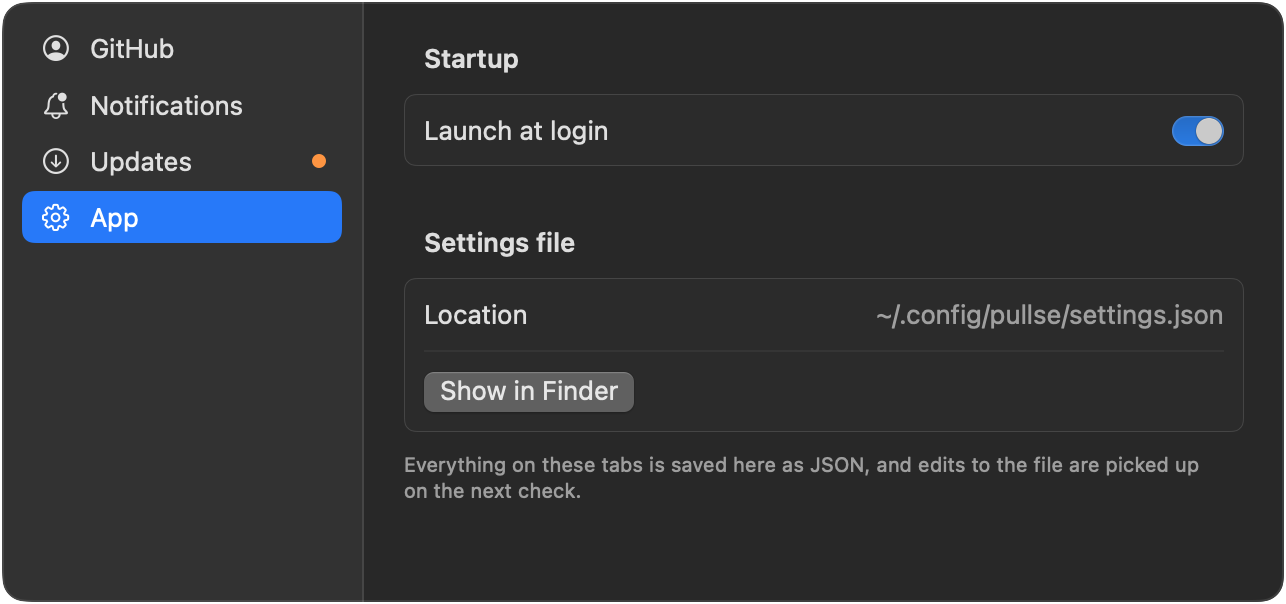
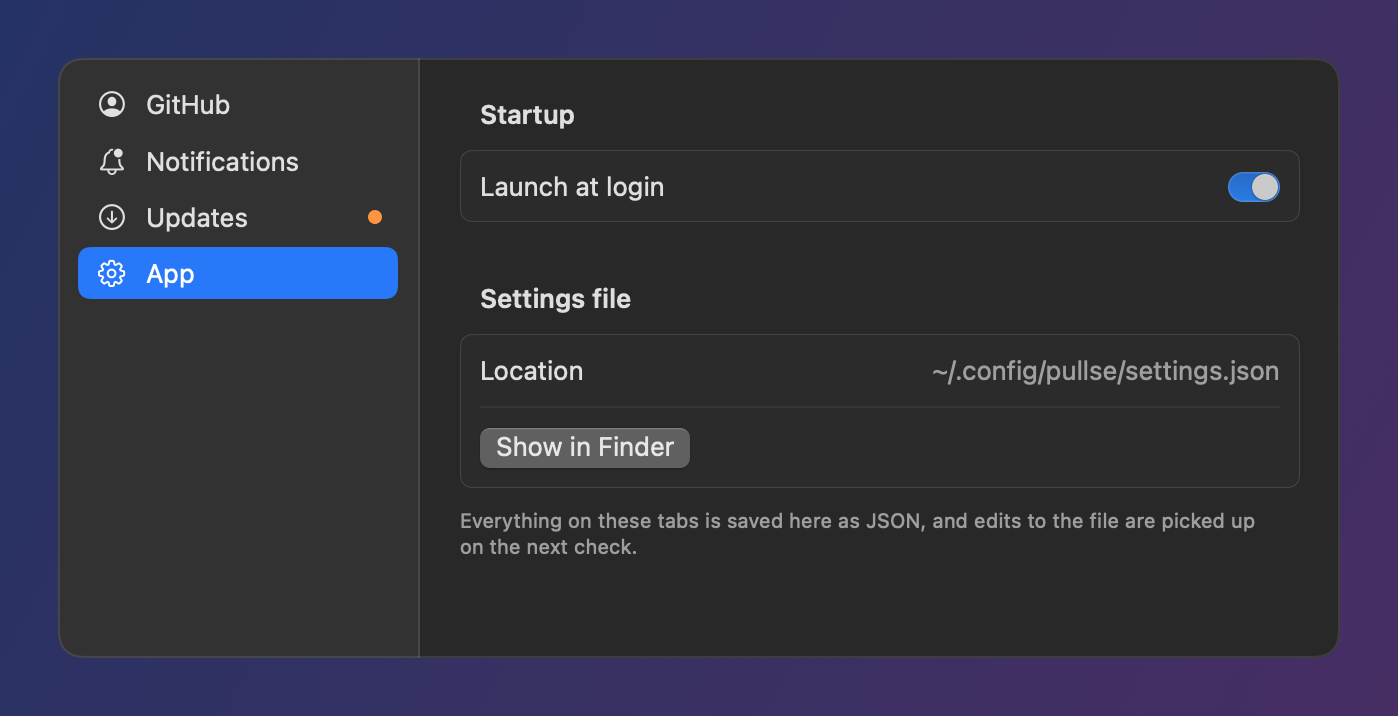
Show the README screenshots in the same scenery as the GIFs
The activity menu is now pictured open under its menu bar icon on a desktop,
and each Settings tab as a window on the wallpaper, in light and dark. The
stills reuse the GIFs' scene pieces from Demo.swift, which now follow the
capture's appearance and can draw a narrower desktop for a still.

diff --git a/Sources/Pullse/Demo.swift b/Sources/Pullse/Demo.swift
@@ -193,13 +193,22 @@ enum Demo {
 
 // MARK: - Scene pieces
 
-private let wallpaper = LinearGradient(
-    colors: [Color(red: 0.35, green: 0.53, blue: 0.87), Color(red: 0.60, green: 0.45, blue: 0.80)],
-    startPoint: .topLeading, endPoint: .bottomTrailing
-)
+/// The desktop behind every scene, a shade darker in dark mode.
+struct DemoWallpaper: View {
+    @Environment(\.colorScheme) private var scheme
+
+    var body: some View {
+        LinearGradient(
+            colors: scheme == .dark
+                ? [Color(red: 0.13, green: 0.20, blue: 0.40), Color(red: 0.27, green: 0.18, blue: 0.40)]
+                : [Color(red: 0.35, green: 0.53, blue: 0.87), Color(red: 0.60, green: 0.45, blue: 0.80)],
+            startPoint: .topLeading, endPoint: .bottomTrailing
+        )
+    }
+}
 
 /// A fixed-size wallpaper with `content` on it and an optional pointer on top.
-private struct DemoCanvas<Content: View>: View {
+struct DemoCanvas<Content: View>: View {
     let size: CGSize
     var cursor: CGPoint?
     var click = false
@@ -207,7 +216,7 @@ private struct DemoCanvas<Content: View>: View {
 
     var body: some View {
         ZStack(alignment: .topLeading) {
-            wallpaper
+            DemoWallpaper()
             content()
             if let cursor {
                 DemoPointer(click: click).offset(x: cursor.x, y: cursor.y)
@@ -215,13 +224,12 @@ private struct DemoCanvas<Content: View>: View {
         }
         .frame(width: size.width, height: size.height, alignment: .topLeading)
         .clipped()
-        .environment(\.colorScheme, .light)
     }
 }
 
 /// A desktop with a menu bar; Pullse's label sits in it at `icon`, and its menu opens
 /// under it.
-private struct DemoDesktop: View {
+struct DemoDesktop: View {
     static let size = CGSize(width: 760, height: 590)
     /// Center of Pullse's menu bar label: the right side of the bar is laid out in fixed
     /// widths so this is known.
@@ -229,6 +237,7 @@ private struct DemoDesktop: View {
     /// Top-left corner of the open menu.
     static let menuOrigin = CGPoint(x: icon.x - 191, y: 31)
 
+    @Environment(\.colorScheme) private var scheme
     let model: AppModel
     var iconVisible = true
     var menu = false
@@ -236,17 +245,35 @@ private struct DemoDesktop: View {
     var bannerShown: CGFloat = 1
     var cursor: CGPoint?
     var click = false
+    /// Narrower than the GIFs' desktop for a still picture of the open menu: the icon and
+    /// menu keep their distance from the right edge, so only empty desktop is cut.
+    var width: CGFloat
+
+    init(model: AppModel, iconVisible: Bool = true, menu: Bool = false, banner: DemoBanner? = nil,
+         bannerShown: CGFloat = 1, cursor: CGPoint? = nil, click: Bool = false,
+         width: CGFloat = DemoDesktop.size.width) {
+        self.width = width
+        self.model = model
+        self.iconVisible = iconVisible
+        self.menu = menu
+        self.banner = banner
+        self.bannerShown = bannerShown
+        self.cursor = cursor
+        self.click = click
+    }
 
     var body: some View {
-        DemoCanvas(size: Self.size, cursor: cursor, click: click) {
+        // Everything is placed from the right edge, like a real menu bar.
+        let shift = width - Self.size.width
+        DemoCanvas(size: CGSize(width: width, height: Self.size.height), cursor: cursor, click: click) {
             menuBar
             if menu {
                 Screenshots.popover(MenuView(model: model))
                     .fixedSize()
-                    .offset(x: Self.menuOrigin.x, y: Self.menuOrigin.y)
+                    .offset(x: Self.menuOrigin.x + shift, y: Self.menuOrigin.y)
             }
             if let banner {
-                banner.offset(x: Self.size.width - DemoBanner.width - 12 + (1 - bannerShown) * (DemoBanner.width + 24),
+                banner.offset(x: width - DemoBanner.width - 12 + (1 - bannerShown) * (DemoBanner.width + 24),
                               y: 36)
             }
         }
@@ -256,10 +283,13 @@ private struct DemoDesktop: View {
         HStack(spacing: 14) {
             Image(systemName: "applelogo")
             Text("Finder").fontWeight(.semibold)
-            Text("File")
-            Text("Edit")
-            Text("View")
-            Text("Window")
+            // A narrow desktop has room for the app name only, as a real menu bar would.
+            if width >= Self.size.width {
+                Text("File")
+                Text("Edit")
+                Text("View")
+                Text("Window")
+            }
             Spacer()
             Group {
                 if iconVisible {
@@ -272,15 +302,15 @@ private struct DemoDesktop: View {
             Text("Mon 9:41").frame(width: 80, alignment: .trailing)
         }
         .font(.system(size: 13))
-        .foregroundStyle(.black)
+        .foregroundStyle(.primary)
         .padding(.horizontal, 14)
-        .frame(width: Self.size.width, height: 26)
-        .background(Color.white.opacity(0.72))
+        .frame(width: width, height: 26)
+        .background(scheme == .dark ? Color.black.opacity(0.35) : Color.white.opacity(0.72))
     }
 }
 
 /// A macOS-style notification banner, laid out like the ones `Notifier` posts.
-private struct DemoBanner: View {
+struct DemoBanner: View {
     static let width: CGFloat = 344
 
     let title: String
@@ -331,7 +361,7 @@ private struct DemoBanner: View {
 }
 
 /// The arrow pointer, tip at the view's origin, with a ring while it clicks.
-private struct DemoPointer: View {
+struct DemoPointer: View {
     let click: Bool
 
     var body: some View {

diff --git a/Sources/Pullse/Screenshots.swift b/Sources/Pullse/Screenshots.swift
@@ -2,8 +2,8 @@ import AppKit
 import PullseCore
 import SwiftUI
 
-/// `Pullse --screenshots <dir>`: renders the menu and each Settings tab, in light and
-/// dark, to PNGs for the README. The data is made up and the app never talks to GitHub
+/// `Pullse --screenshots <dir>`: renders the menu (open on a desktop) and each Settings
+/// tab (on the wallpaper), in light and dark, to PNGs for the README. The data is made up and the app never talks to GitHub
 /// or touches the real settings and state files in this mode.
 ///
 /// Views are drawn from an off-screen window of this process, so no Screen Recording
@@ -15,12 +15,17 @@ enum Screenshots {
             do {
                 try FileManager.default.createDirectory(at: directory, withIntermediateDirectories: true)
                 for (suffix, appearance) in [("light", NSAppearance.Name.aqua), ("dark", .darkAqua)] {
-                    // A fresh model per picture: closing the menu marks everything read.
-                    try await snapshot(popover(MenuView(model: try sampleModel())), appearance: appearance,
+                    // Same scenery as the README's GIFs (Demo.swift): the menu open under its
+                    // icon on a desktop, and each Settings tab on the wallpaper. A fresh model
+                    // per picture: closing the menu marks everything read.
+                    try await snapshot(DemoDesktop(model: try sampleModel(), menu: true, width: 440), appearance: appearance,
                                        to: directory.appendingPathComponent("menu-\(suffix).png"))
                     for tab in SettingsTab.allCases {
-                        try await snapshot(popover(SettingsView(model: try sampleModel(), tab: tab)),
-                                           appearance: appearance,
+                        let window = popover(SettingsView(model: try sampleModel(), tab: tab))
+                            .fixedSize()
+                            .padding(28)
+                            .background(DemoWallpaper())
+                        try await snapshot(window, appearance: appearance,
                                            to: directory.appendingPathComponent("settings-\(tab.rawValue)-\(suffix).png"))
                     }
                 }

diff --git a/README.md b/README.md
@@ -20,7 +20,7 @@ grouped by PR. Right-click the icon for About (the GitHub repository), Settings 
 <p align="center">
   <picture>
     <source media="(prefers-color-scheme: dark)" srcset="docs/screenshots/menu-dark.png">
-    <img src="docs/screenshots/menu-light.png" width="380" alt="The Pullse menu: recent activity grouped by pull request, with unread items marked">
+    <img src="docs/screenshots/menu-light.png" width="440" alt="The Pullse menu open under its menu bar icon: recent activity grouped by pull request, with unread items marked">
   </picture>
 </p>
 
@@ -148,7 +148,7 @@ A dot on a tab means it needs a look: notifications are off, or an update is wai
 <p align="center">
   <picture>
     <source media="(prefers-color-scheme: dark)" srcset="docs/screenshots/settings-notifications-dark.png">
-    <img src="docs/screenshots/settings-notifications-light.png" width="640" alt="The Notifications tab of Pullse Settings: event toggles, CI results mode, filters and a test notification button">
+    <img src="docs/screenshots/settings-notifications-light.png" width="700" alt="The Notifications tab of Pullse Settings: event toggles, CI results mode, filters and a test notification button">
   </picture>
 </p>
 
@@ -158,19 +158,19 @@ A dot on a tab means it needs a look: notifications are off, or an update is wai
 <p align="center">
   <picture>
     <source media="(prefers-color-scheme: dark)" srcset="docs/screenshots/settings-github-dark.png">
-    <img src="docs/screenshots/settings-github-light.png" width="640" alt="The GitHub tab: organization and check interval">
+    <img src="docs/screenshots/settings-github-light.png" width="700" alt="The GitHub tab: organization and check interval">
   </picture>
 </p>
 <p align="center">
   <picture>
     <source media="(prefers-color-scheme: dark)" srcset="docs/screenshots/settings-updates-dark.png">
-    <img src="docs/screenshots/settings-updates-light.png" width="640" alt="The Updates tab: version, Check now, and automatic update toggles">
+    <img src="docs/screenshots/settings-updates-light.png" width="700" alt="The Updates tab: version, Check now, and automatic update toggles">
   </picture>
 </p>
 <p align="center">
   <picture>
     <source media="(prefers-color-scheme: dark)" srcset="docs/screenshots/settings-app-dark.png">
-    <img src="docs/screenshots/settings-app-light.png" width="640" alt="The App tab: launch at login and the settings file location">
+    <img src="docs/screenshots/settings-app-light.png" width="700" alt="The App tab: launch at login and the settings file location">
   </picture>
 </p>
 

diff --git a/CLAUDE.md b/CLAUDE.md
@@ -30,7 +30,8 @@ flag on the binary) runs one fetch, prints, and exits without notifying or touch
 state. `Pullse --screenshots <dir>` (`Screenshots.swift`) draws the real views into
 off-screen windows, using sample data and temporary files, so it needs no Screen Recording
 permission. Re-run it after UI changes; the sample data follows the placeholder-names
-rule below. It renders one picture per `SettingsTab` (`settings-<tab>-<light|dark>.png`),
+rule below. The stills use the GIFs' scenery from `Demo.swift` (the menu open on a
+narrow desktop, Settings on the wallpaper). It renders one picture per `SettingsTab` (`settings-<tab>-<light|dark>.png`),
 so a new tab gets a screenshot automatically, but the README links each one by name. `Pullse --demo <dir>` (`Demo.swift`) renders the README's GIFs the same way: each
 frame is the real views inside a made-up desktop (menu bar, notification banners, a
 pointer), and ImageIO writes the GIF. The pointer and menu positions are fixed
